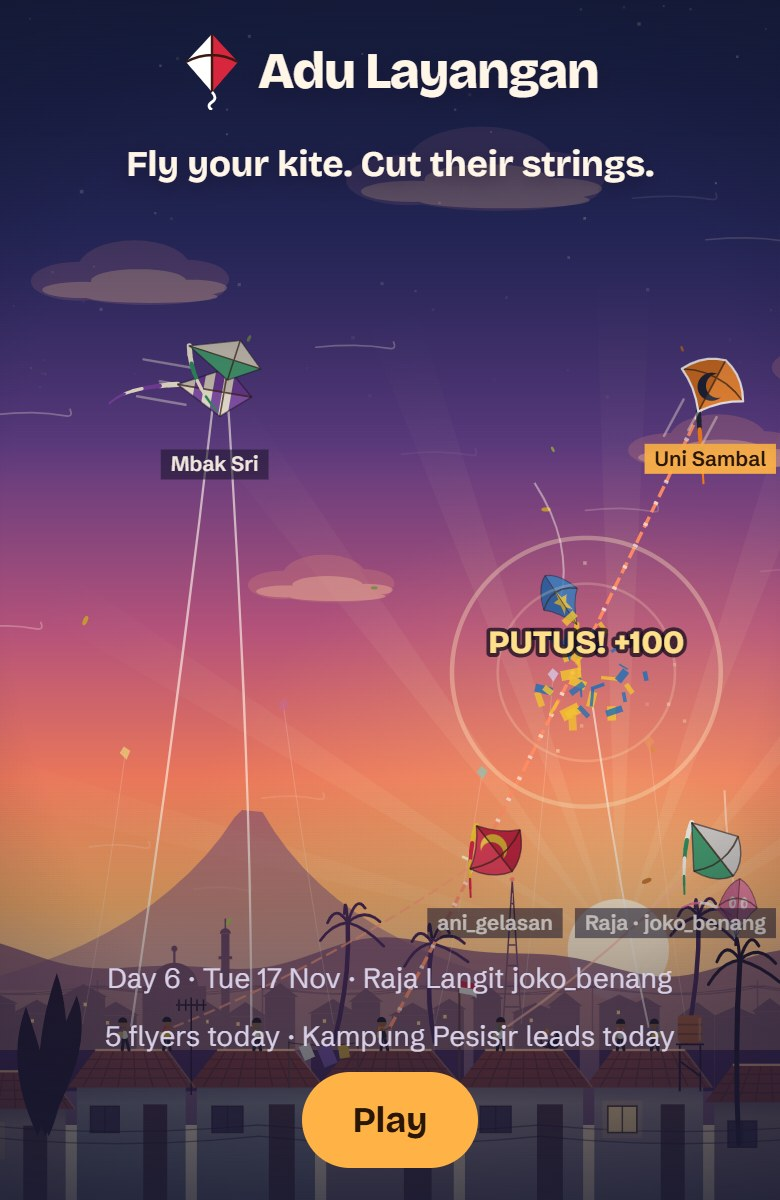
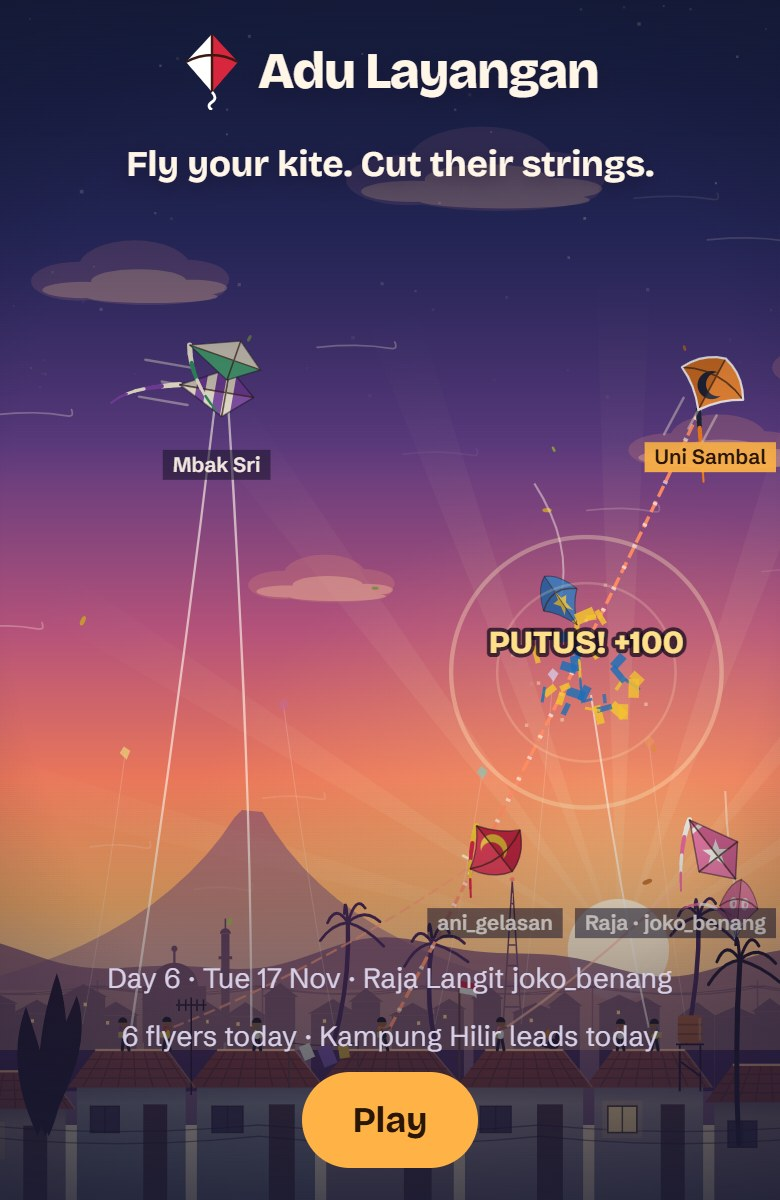
Document the kite contest in the listing and the subreddit.
The README and sidebar say the most-upvoted kite is the one Raja Langit flies tomorrow, with screenshots of the feed, the ready screen, and the contest sheet.

diff --git a/README.md b/README.md
@@ -5,7 +5,7 @@
 Fly a fighter kite with one finger. Cross a rival's string and saw through it with yours. One sky a day, the same for everyone, and yesterday's best flyer comes back as the boss.
 
 <p align="center">
-  <img src="docs/screenshots/01-feed.jpg" width="250" alt="The post in the feed: the day's sky plays by itself over the kampung roofs at dusk, a rival's kite bursts into paper scraps under the words PUTUS! +100, and below it the day, Raja Langit joko_benang, 5 flyers today, Kampung Pesisir leads today, and a Play button">
+  <img src="docs/screenshots/01-feed.jpg" width="250" alt="The post in the feed: the day's sky plays by itself over the kampung roofs at dusk, a rival's kite bursts into paper scraps under the words PUTUS! +100, Raja Langit flies a pink star kite the kampung voted for, and below it the day, Raja Langit joko_benang, 6 flyers today, Kampung Hilir leads today, and a Play button">
   &nbsp;
   <img src="docs/screenshots/04-flight.jpg" width="250" alt="A flight in progress: Time and String bars at the top with 400 points, kites over a volcano at sunset, and Raja Langit's kite torn apart above the roofs with the words RAJA! +300">
   &nbsp;
@@ -17,7 +17,7 @@ Fly a fighter kite with one finger. Cross a rival's string and saw through it wi
 
 Every day at 00:00 UTC the subreddit gets a new sky: a new wind, three rival flyers from the kampung, and **Raja Langit**, the best flight from the day before, played back as it was flown. A round lasts 60 seconds. You hold to pull your string and let go to steer, and where your string crosses a rival's, the faster one saws through the slower. Your best of three scored flights is kept.
 
-Every flight counts for a side. Players fly for one of three kampungs, and the kampung with the most points wins the day. You can wear your kampung as your flair, post your score card in the day's thread, and tomorrow your own flight may be the king everyone else is trying to cut down.
+Every flight counts for a side. Players fly for one of three kampungs, and the kampung with the most points wins the day. You can wear your kampung as your flair and post your score card in the day's thread. And the subreddit dresses the king: players enter their own kites in the day's thread, and the kite with the most upvotes is the one Raja Langit flies tomorrow. Tomorrow your flight may be the king everyone is trying to cut down, or your kite the one it flies.
 
 It is for anyone who wants a one-minute game a day, and for communities that want a daily ritual to play together. For moderators, the app runs itself: it posts the day's sky on its own and keeps nothing about a player for more than 30 days.
 
@@ -30,7 +30,8 @@ _Adu layangan_ is Indonesian for "kite fighting", played from the rooftops every
 3. **You fly up to three scored flights.** The best one is kept on today's standings; after three, you can practise as much as you like.
 4. **Your points go to your kampung.** The ready screen shows who leads; the result card shows what your flight added.
 5. **You share your flight** as a comment under the day's pinned thread, if you want to.
-6. **Tomorrow, the best flight flies again** as Raja Langit, worth 300 points to whoever cuts it, and the next two best fly beside it.
+6. **You enter your kite** in the day's kite contest, and upvote the kites you like in the thread.
+7. **Tomorrow, the best flight flies again** as Raja Langit, worth 300 points to whoever cuts it, wearing the kite the subreddit voted for, and the next two best flights fly beside it.
 
 ## How to play
 
@@ -63,13 +64,16 @@ Your string is glass-coated (_benang gelasan_): it takes about twice as much rub
 ## Played together
 
 <p align="center">
-  <img src="docs/screenshots/03-ready.jpg" width="250" alt="The ready screen: the player Neng Cilok flying for Kampung Hilir with 100 coins and 3 of 3 scored flights left, the kampung board with Pesisir 1300, Hilir 1200 and Hulu 1100, Raja Langit joko_benang worth 300, five more kites folded into one line, and the time of day set to dusk">
+  <img src="docs/screenshots/03-ready.jpg" width="250" alt="The ready screen: the player Neng Cilok flying for Kampung Hilir with 140 coins and 2 of 3 scored flights left, the kampung board with Hilir 1600, Pesisir 1300 and Hulu 1100, Raja Langit joko_benang worth 300 flying u/wulan_kite's kite, voted in, five more kites folded into one line, and the time of day set to dusk">
+  &nbsp;
+  <img src="docs/screenshots/08-contest.jpg" width="250" alt="The Raja's kite sheet: flying today is u/wulan_kite's pink star kite with 14 upvotes yesterday, an Enter my kite button that posts the kite as a comment from u/sekar_layang, and today's five kites ranked by upvotes from u/putu_pesisir with 18 to u/rara_senja with 16, each opening its comment to upvote">
   &nbsp;
   <img src="docs/screenshots/05-kampung.jpg" width="250" alt="The kampung sheet: Kampung Hulu up the river, Kampung Hilir down the river (chosen) and Kampung Pesisir by the sea with today's points, and a preview of the flair u/sekar_layang Kampung Hilir with a Wear as my flair button">
 </p>
 
 - **Three kampungs.** Pick **Hulu** (up the river), **Hilir** (down the river) or **Pesisir** (by the sea). Every scored flight adds its points to your kampung for the day, the kampung with the most points wins it, and the next day's post says who won. You can move to another kampung at any time; points already earned stay where they were earned.
 - **Kampung flair.** Wear your kampung as your user flair, so it shows next to your name in the comments. The game shows you exactly how it will look and sets it only when you tap **Wear as my flair**.
+- **Raja's kite, chosen by votes.** Enter your kite from the game and it is posted, as your own comment, under the day's kite contest. Upvote the kites you like right there in the thread. When the day ends, the kite with the most upvotes becomes the kite Raja Langit flies the next day, with its maker named on the ready screen. The game reads the upvotes; it never rewards anyone for voting.
 - **Raja Langit and recorded flights.** Every scored flight is recorded. Yesterday's best comes back as today's boss, and the next two fly beside it, so the rivals in the sky are other players of the subreddit. A flight you make today can be someone's rival tomorrow. On a day with no recordings yet, the kampung's own flyers take those places.
 - **The day's thread.** The result card can post your flight as a short score card, as your own comment, in reply to the day's pinned thread. You see the exact text and the account it will be posted from before anything is posted, and each flight is posted at most once.
 - **Today's standings** appear on every result card, so you know where you stand after each flight.
@@ -93,7 +97,8 @@ Before a round you can also pick the time of day the sky is drawn in: morning, n
 - **Everyone flies the same sky.** The day's wind and rivals come from the date, so every player meets the same fight.
 - **Scores cannot be faked.** The game sends only the moments you pressed and let go. The server replays the round on the same sky and counts the score and coins itself.
 - **No pay to win.** Coins buy looks only.
-- **Little is kept, and not for long.** Your kite and name, your kampung, your coins and the looks you bought, your best score of each day and the recording of that flight. Everything about a player is deleted 30 days after it last changed.
+- **Votes stay on Reddit.** The kite contest is decided by ordinary upvotes on ordinary comments. Nothing in the game rewards voting, and deleting your entry's comment takes your kite out of the contest.
+- **Little is kept, and not for long.** Your kite and name, your kampung, your coins and the looks you bought, your best score of each day and the recording of that flight, and the kites you entered. Everything about a player is deleted 30 days after it last changed.
 - **Nothing leaves Reddit.** The app makes no requests outside Reddit, and comments and flair are only ever made from your own tap.
 
 ## Built for phones
@@ -104,6 +109,7 @@ The game is drawn for a phone held upright and played with one thumb; a mouse or
 
 - Installing the app creates the day's post, and a new one goes up every day at 00:00 UTC. To create it by hand, open the subreddit menu and choose **Post today's sky**.
 - For kampung flair to show next to names, turn on user flair in the subreddit's settings. The app sets each player's flair only when that player asks for it.
+- The first kite entered each day makes the app post a short **Kite contest** comment on the day's post; entries are replies to it. Removing an entry's comment removes the kite from the contest.
 - **Report a problem**, on the ready screen and the result card, opens a message to the subreddit's moderators with the day already filled in.
 
 ## Reporting a problem
@@ -116,7 +122,7 @@ Requires Node 22.12 or newer.
 
 ```bash
 npm install
-npm test              # 68 tests: flight, cutting, replay, scoring, coins, kampungs, sharing
+npm test              # 80 tests: flight, cutting, replay, scoring, coins, kampungs, sharing, the kite contest
 npm run dev:local     # the whole game in a browser at http://localhost:5180/game.html, without Reddit
 npm run dev           # playtest on Reddit (needs `npm run login` first)
 npm run build         # the bundle Reddit runs
@@ -132,7 +138,7 @@ src/server/       endpoints that run on Reddit's servers: rounds, coins, kampung
 
 - **Deterministic simulation.** Angles are whole numbers and the sine table is the game's own instead of `Math.sin`, so the same taps produce the same round on every device. The server scores each round by replaying the player's taps, and recorded flights are replayed the same way.
 - **What you see is what is scored.** The string the simulation tests for a touch is the same curve that is drawn (`src/shared/sim/line.ts`), so sparks always sit on the strings you see.
-- **The local preview is the real server.** `npm run dev:local` runs the same routes with an in-memory store and stand-ins for Reddit's user, comments and flair.
+- **The local preview is the real server.** `npm run dev:local` runs the same routes with an in-memory store and stand-ins for Reddit's user, comments, upvotes and flair.
 - **Devvit Journeys** record when a flight starts and ends and when a card is shared.
 
 ## Credits

diff --git a/SUBREDDIT.md b/SUBREDDIT.md
@@ -52,6 +52,8 @@ Every day at 00:00 UTC there is a new sky, the same for everyone: a new wind, th
 
 **Share** your flight from the result card. It posts under the day's thread.
 
+**Raja's kite.** Enter your kite from the game. The kite with the most upvotes in the day's kite contest is the one Raja Langit flies tomorrow.
+
 *Adu layangan* is Indonesian for "kite fighting", played from the rooftops every dry season.
 ```
 
